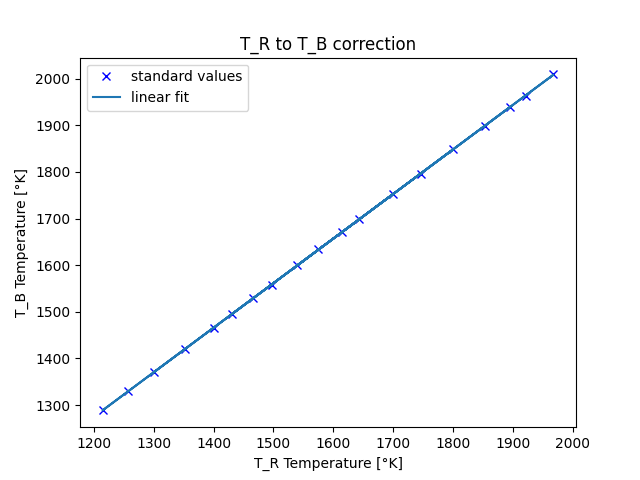
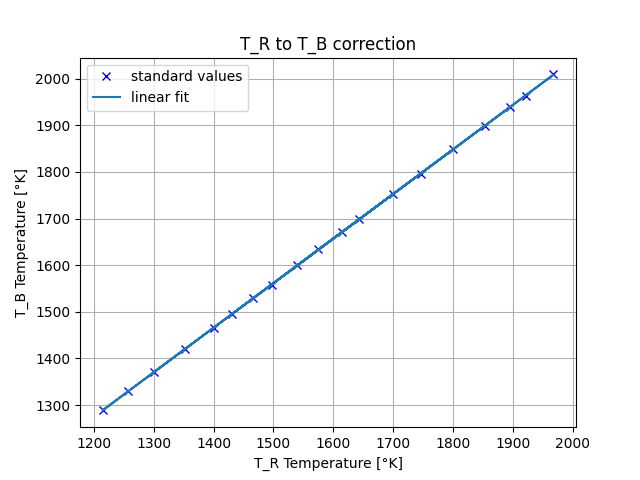
graph formatting

diff --git a/calculating_temp_from_resistance.py b/calculating_temp_from_resistance.py
@@ -5,6 +5,8 @@
 import numpy as np
 import matplotlib.pyplot as plt
 import scipy.optimize as opt
+# import scienceplots
+# plt.style.use('science')
 
 # import data
 given_data = np.loadtxt('data\\temp_resistance_relation_lab_script.csv', delimiter=',', skiprows=1)
@@ -69,7 +71,7 @@ print(uncert)
 plt.errorbar(measured_normalised_resistance, measured_temp_R, yerr=uncert, fmt='x', color='red', label='measured values')
 plt.xlabel('Resistance [Ohm]')
 plt.ylabel('Temperature [°K]')
-plt.title('Temperature - Resistance relation interpolated from standard values')
+plt.title('Temperature - Resistance relation\n interpolated from standard values')
 plt.grid()
 plt.legend()
 # plt.show()
@@ -87,6 +89,7 @@ optimal_params, covariance = opt.curve_fit(linear_func, T_correction_data[:, 0],
 plt.plot(T_correction_data[:, 0], linear_func(T_correction_data[:, 0], *optimal_params), label='linear fit')
 plt.legend()
 # plt.show()
+plt.grid()
 plt.savefig('graphs\\T_R_to_T_B_correction.png')
 plt.close()
 print('m:', optimal_params[0], 'c:', optimal_params[1])
